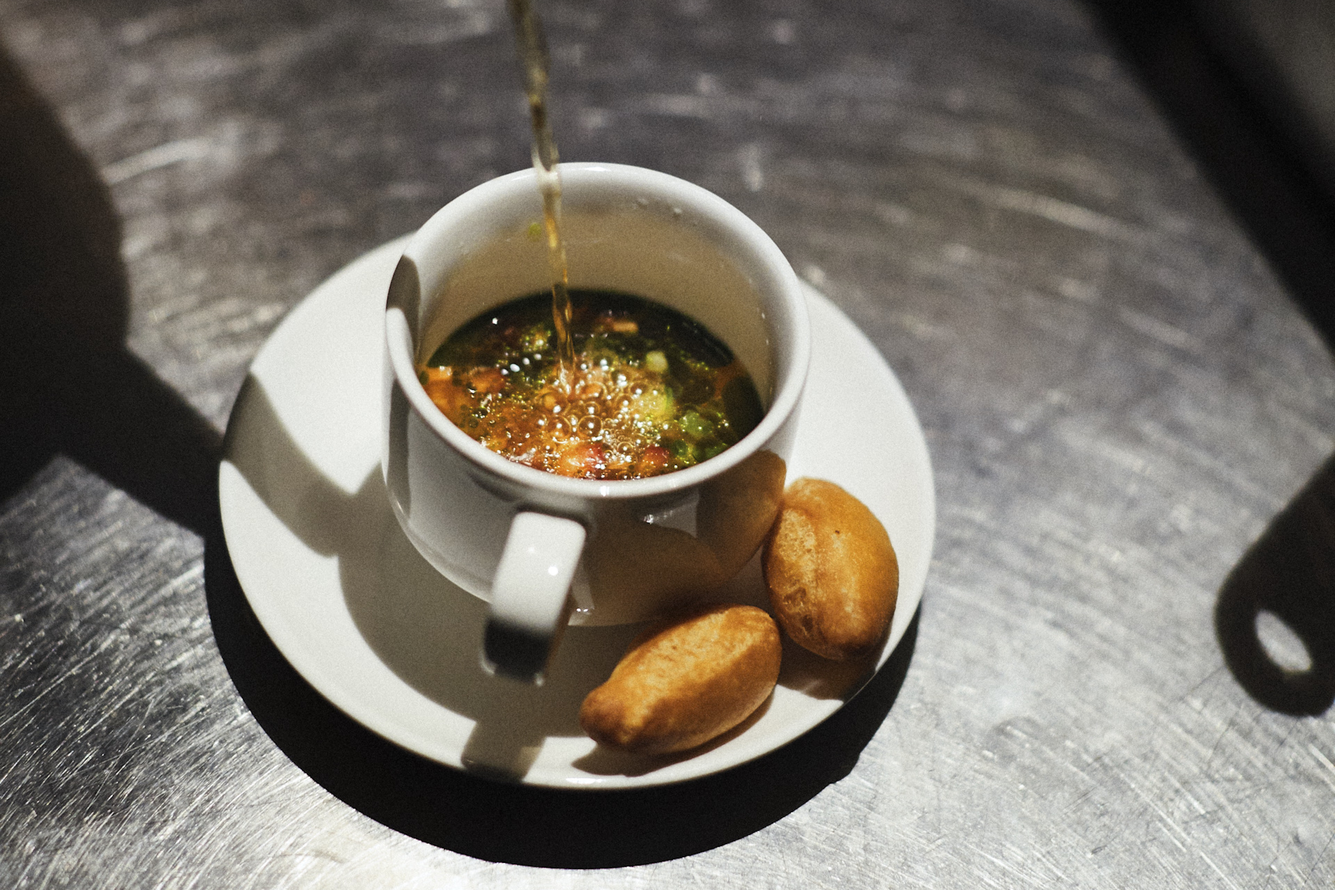
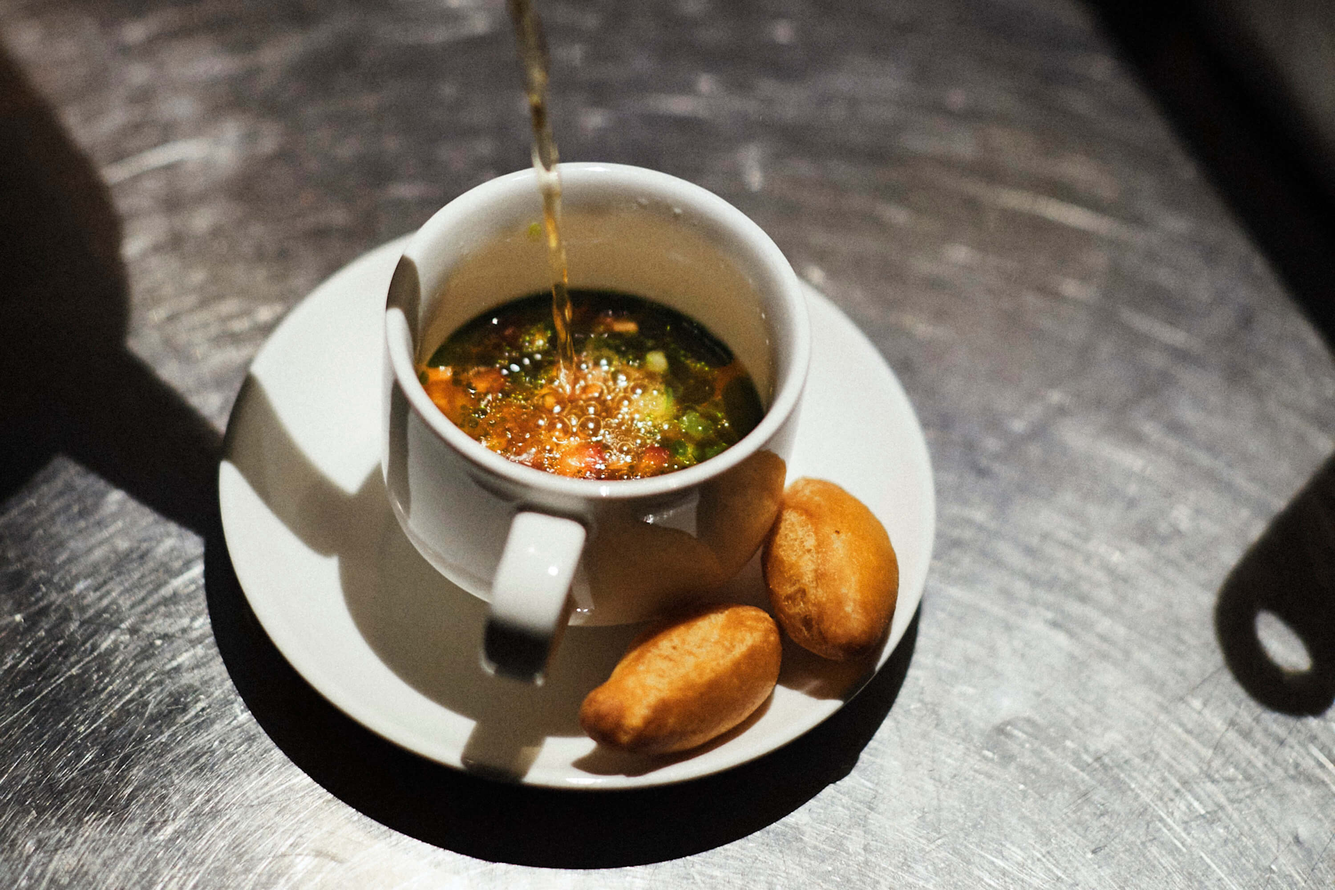
Add compressed images

Changed region(s): [[0.31, 0.403, 0.496, 0.527], [0.589, 0.558, 0.682, 0.682], [0.527, 0.682, 0.558, 0.713]]

diff --git a/templates/index.html b/templates/index.html
@@ -16,23 +16,30 @@
         </div>
     </div>
 </div>
-<div class="divider"></div>
-<div class="container text-center">
-    <h2>Sample Menu</h2>
-    <p>A delicious menu curated by Head Chef Daniel Smith</p>
-    <div class="menu-list">
-        <div class="menu-item">
-            <img src="{% static 'images/fish-tea.jpg' %}" alt="Fish Tea" class="img-fluid">
-            <h3>Fish Tea</h3>
-            <p>Fish broth infused with ginger, scotch bonnet pepper. Fermented spring onion and carrots. Served with festival fried dumplings.</p>
-        </div>
-        <div class="menu-item">
-            <img src="{% static 'images/fried-chicken.jpg' %}" alt="Southern Fried Chicken" class="img-fluid">
-            <h3>Southern Fried Chicken</h3>
-            <p>Southern fried chicken wings, marinated in a spice buttermilk, and served with a fermented homemade spicy bbq sauce.</p>
+<section>
+    <div class="divider"></div>
+    <div class="container text-center">
+        <h2>Sample Menu</h2>
+        <p>A delicious menu curated by Head Chef Daniel Smith</p>
+        <div class="menu-list">
+            <figure class="menu-item">
+                <img src="{% static 'images/fish-tea.jpg' %}" alt="Fish Tea" class="img-fluid">
+                <figcaption>
+                    <h3>Fish Tea</h3>
+                    <p>Fish broth infused with ginger, scotch bonnet pepper. Fermented spring onion and carrots. Served with festival fried dumplings.</p>
+                </figcaption>
+            </figure>
+            <figure class="menu-item">
+                <img src="{% static 'images/fried-chicken.jpg' %}" alt="Southern Fried Chicken" class="img-fluid">
+                <figcaption>
+                    <h3>Southern Fried Chicken</h3>
+                    <p>Southern fried chicken wings, marinated in a spice buttermilk, and served with a fermented homemade spicy bbq sauce.</p>
+                </figcaption>
+            </figure>
         </div>
     </div>
-</div>
+</section>
+
 <div id="booking-section" class="hero-section-next position-relative d-flex justify-content-between align-items-center">
     <div class="booking-container">
         <div class="hero-content-book">
@@ -44,23 +51,32 @@
             <h3 class="mb-3">Book a Table</h3>
             <form id="booking-form" method="post" action="{% url 'book' %}">
                 {% csrf_token %}
+                
                 <div class="mb-3">
-                    <input type="text" class="form-control" name="name" placeholder="Name">
+                    <label for="nameInput" class="visually-hidden">Name</label>
+                    <input type="text" id="nameInput" class="form-control" name="name" placeholder="Name" required>
                 </div>
                 <div class="mb-3">
-                    <input type="email" class="form-control" name="email" placeholder="Email">
+                    <label for="emailInput" class="visually-hidden">Email</label>
+                    <input type="email" id="emailInput" class="form-control" name="email" placeholder="Email" required>
                 </div>
                 <div class="mb-3">
-                    <input type="number" class="form-control" name="number_of_guests" placeholder="Number of Guests">
+                    <label for="guestInput" class="visually-hidden">Number of Guests</label>
+                    <input type="number" id="guestInput" class="form-control" name="number_of_guests" placeholder="Number of Guests" required>
                 </div>
                 <div class="mb-3">
-                    <input type="text" id="datePicker" class="form-control" name="date" placeholder="Choose Date">
+                    <label for="datePicker" class="visually-hidden">Choose Date</label>
+                    <input type="text" id="datePicker" class="form-control" name="date" placeholder="Choose a date (MM/DD/YYYY)" aria-label="Choose a date for booking" required>
                 </div>
                 <div class="mb-3">
-                    <input type="time" id="timePicker" class="form-control" name="time">
+                    <label for="timePicker" class="visually-hidden">Choose Time</label>
+                    <input type="time" id="timePicker" class="form-control" name="time" aria-label="Choose a time for booking" required>
                 </div>
+                
                 <button type="submit" class="btn btn-primary mr-2">Book</button>
+                
                 {% if bookings %}
+                <!-- Ensure that these buttons are appropriately described to the user -->
                 <a href="{% url 'edit_booking' bookings.0.id %}" class="btn btn-primary mr-2">Edit</a>
                 <a href="{% url 'cancel_booking' bookings.0.id %}" class="btn btn-danger mr-2">Cancel</a>
                 {% endif %}
@@ -80,58 +96,67 @@
 
 <div class="container-fluid gallery-section">
     <h2 class="section-title">LOCAL FARMED</h2>
-    <p class="section-paragraph">At Street Gastro, we take great pride in using locally farmed fresh ingredients in all our dishes. Our commitment to supporting local farmers and producers ensures that our culinary creations are of the highest quality and reflect the unique flavors of the region. By sourcing locally, we not only offer delicious and nutritious meals but also contribute to the sustainability of the local community and reduce our environmental impact. With each bite, you can taste the richness of our region's agriculture and the dedication of those who bring these exceptional ingredients to our kitchen.</p>
+    <p class="section-paragraph">
+        At Street Gastro, we take great pride in using locally farmed fresh ingredients in all our dishes. 
+        Our commitment to supporting local farmers and producers ensures that our culinary creations are of the highest quality and reflect the unique flavors of the region.
+        By sourcing locally, we not only offer delicious and nutritious meals but also contribute to the sustainability of the local community and reduce our environmental impact.
+        With each bite, you can taste the richness of our region's agriculture and the dedication of those who bring these exceptional ingredients to our kitchen.
+    </p>
+    
     <div id="galleryCarousel" class="carousel slide" data-bs-ride="carousel">
         <div class="carousel-inner">
             <div class="carousel-item active">
                 <div class="row">
                     <div class="col-md-4">
-                        <img src="{% static 'images/lime-r.jpg' %}" alt="Image 1" class="img-fluid">
+                        <img src="{% static 'images/lime-r.jpg' %}" alt="Freshly harvested lime" class="img-fluid">
                     </div>
                     <div class="col-md-4">
-                        <img src="{% static 'images/chicken.jpg' %}" alt="Image 2" class="img-fluid">
+                        <img src="{% static 'images/chicken.jpg' %}" alt="Grilled chicken dish" class="img-fluid">
                     </div>
                     <div class="col-md-4">
-                        <img src="{% static 'images/habanero.jpg' %}" alt="Image 3" class="img-fluid">
+                        <img src="{% static 'images/habanero.jpg' %}" alt="Spicy habanero peppers" class="img-fluid">
                     </div>
                 </div>
             </div>
             <div class="carousel-item">
                 <div class="row">
                     <div class="col-md-4">
-                        <img src="{% static 'images/red-snapper-r.jpg' %}" alt="Image 4" class="img-fluid">
+                        <img src="{% static 'images/red-snapper-r.jpg' %}" alt="Fresh red snapper fish" class="img-fluid">
                     </div>
                     <div class="col-md-4">
-                        <img src="{% static 'images/fruit-r.jpg' %}" alt="Image 5" class="img-fluid">
+                        <img src="{% static 'images/fruit-r.jpg' %}" alt="Variety of tropical fruits" class="img-fluid">
                     </div>
                     <div class="col-md-4">
-                        <img src="{% static 'images/spices-r.jpg' %}" alt="Image 6" class="img-fluid">
+                        <img src="{% static 'images/spices-r.jpg' %}" alt="Assorted spices in bowls" class="img-fluid">
                     </div>
                 </div>
             </div>
         </div>
-        <button class="carousel-control-prev" type="button" data-bs-target="#galleryCarousel" data-bs-slide="prev">
+        <button class="carousel-control-prev" type="button" data-bs-target="#galleryCarousel" data-bs-slide="prev" aria-label="Previous slide">
             <span class="carousel-control-prev-icon" aria-hidden="true"></span>
             <span class="visually-hidden">Previous</span>
         </button>
-        <button class="carousel-control-next" type="button" data-bs-target="#galleryCarousel" data-bs-slide="next">
+        <button class="carousel-control-next" type="button" data-bs-target="#galleryCarousel" data-bs-slide="next" aria-label="Next slide">
             <span class="carousel-control-next-icon" aria-hidden="true"></span>
             <span class="visually-hidden">Next</span>
         </button>
     </div>
 </div>
+
 <div class="divider"></div>
 <!-- Testimonial Section -->
-<div class="testimonial-section">
+<div class="testimonial-section" aria-label="Testimonials">
     <div class="container">
         <h2 class="text-center">Testimonials</h2>
         <div class="row mt-3">
             <div class="col-md-4">
                 <div class="testimonial">
-                    <img src="{% static 'images/sarah-jaine.jpg' %}" alt="Person 1" class="img-thumbnail rounded-circle">
-                    <h3>Sarah Jaine</h3>
+                    <figure>
+                        <img src="{% static 'images/sarah-jaine.jpg' %}" alt="Sarah Jaine's portrait" class="img-thumbnail rounded-circle">
+                        <figcaption><h3>Sarah Jaine</h3></figcaption>
+                    </figure>
                     <p>Street Gastro is amazing! The food is delicious and the service is top-notch. I highly recommend it!</p>
-                    <div class="rating">
+                    <div class="rating" aria-label="5 out of 5 stars">
                         <span class="star">&#9733;</span>
                         <span class="star">&#9733;</span>
                         <span class="star">&#9733;</span>
@@ -142,10 +167,12 @@
             </div>
             <div class="col-md-4">
                 <div class="testimonial">
-                    <img src="{% static 'images/jane-smith.jpg' %}" alt="Person 2" class="img-thumbnail rounded-circle">
-                    <h3>Jane Smith</h3>
+                    <figure>
+                        <img src="{% static 'images/jane-smith.jpg' %}" alt="Jane Smith's portrait" class="img-thumbnail rounded-circle">
+                        <figcaption><h3>Jane Smith</h3></figcaption>
+                    </figure>
                     <p>Street Gastro! The flavors are out of this world, and the staff is friendly and attentive.</p>
-                    <div class="rating">
+                    <div class="rating" aria-label="5 out of 5 stars">
                         <span class="star">&#9733;</span>
                         <span class="star">&#9733;</span>
                         <span class="star">&#9733;</span>
@@ -156,10 +183,12 @@
             </div>
             <div class="col-md-4">
                 <div class="testimonial">
-                    <img src="{% static 'images/mike-johnson.jpg' %}" alt="Person 3" class="img-thumbnail rounded-circle">
-                    <h3>Mike Johnson</h3>
-                    <p>I had an amazing experience at Street Gastro. The food was fresh and flavorful, and perfect ambiance.</p>
-                    <div class="rating">
+                    <figure>
+                        <img src="{% static 'images/mike-johnson.jpg' %}" alt="Mike Johnson's portrait" class="img-thumbnail rounded-circle">
+                        <figcaption><h3>Mike Johnson</h3></figcaption>
+                    </figure>
+                    <p>I had an amazing experience at Street Gastro. The food was fresh and flavorful, and the perfect ambiance.</p>
+                    <div class="rating" aria-label="4 out of 5 stars">
                         <span class="star">&#9733;</span>
                         <span class="star">&#9733;</span>
                         <span class="star">&#9733;</span>
@@ -171,6 +200,7 @@
         </div>
     </div>
 </div>
+
 
 
 {% endblock %}

diff --git a/templates/base.html b/templates/base.html
@@ -55,23 +55,24 @@
     </nav>
 
     <!-- Hero Section -->
-    <div class="hero-section">
-        <div class="hero-content">
-            <h1>Street Gastro</h1>
-            <div class="hero-subtitle">
-                <p>Street Food curated from locally sourced ingredients</p>
-            </div>
-            <div class="hero-buttons">
-                <a href="#" class="btn btn-primary btn-lg">Book a Table</a>
-                <a href="{% url 'menu' %}" class="btn btn-secondary btn-lg">Browse Menu</a>
-            </div>
+<section class="hero-section" role="banner" aria-label="Hero Banner">
+    <div class="hero-content">
+        <h1>Street Gastro</h1>
+        <div class="hero-subtitle">
+            <p>Street Food curated from locally sourced ingredients</p>
+        </div>
+        <div class="hero-buttons">
+            <a href="#" role="button" class="btn btn-primary btn-lg" aria-label="Book a table at Street Gastro">Book a Table</a>
+            <a href="{% url 'menu' %}" role="button" class="btn btn-secondary btn-lg" aria-label="Browse the menu of Street Gastro">Browse Menu</a>
         </div>
     </div>
-    <!-- Content block, which will be overridden in child templates -->
-    <div class="container">
-        {% block content %}
-        {% endblock %}
-    </div>
+</section>
+
+<!-- Content block, which will be overridden in child templates -->
+<main id="main-content" class="container">
+    {% block content %}
+    {% endblock %}
+</main>
 
 
 
@@ -91,22 +92,23 @@
                     <h5>Follow Us</h5>
                     <ul class="list-inline social-icons">
                         <li class="list-inline-item">
-                            <a href="#" target="_blank" class="footer-icon" style="color: white;">
+                            <a href="#" target="_blank" class="footer-icon" aria-label="Follow us on Facebook" style="color: white;">
                                 <i class="fab fa-facebook-f"></i>
                             </a>
                         </li>
                         <li class="list-inline-item">
-                            <a href="#" target="_blank" class="footer-icon" style="color: white;">
+                            <a href="#" target="_blank" class="footer-icon" aria-label="Follow us on Twitter" style="color: white;">
                                 <i class="fab fa-twitter"></i>
                             </a>
                         </li>
                         <li class="list-inline-item">
-                            <a href="#" target="_blank" class="footer-icon" style="color: white;">
+                            <a href="#" target="_blank" class="footer-icon" aria-label="Follow us on Instagram" style="color: white;">
                                 <i class="fab fa-instagram"></i>
                             </a>
                         </li>
                     </ul>
                 </div>
+                
                 <!-- Column 3: Navigation and Book Button -->
                 <div class="col-12 col-md-4 text-end">
                     <h5>Navigation</h5>
